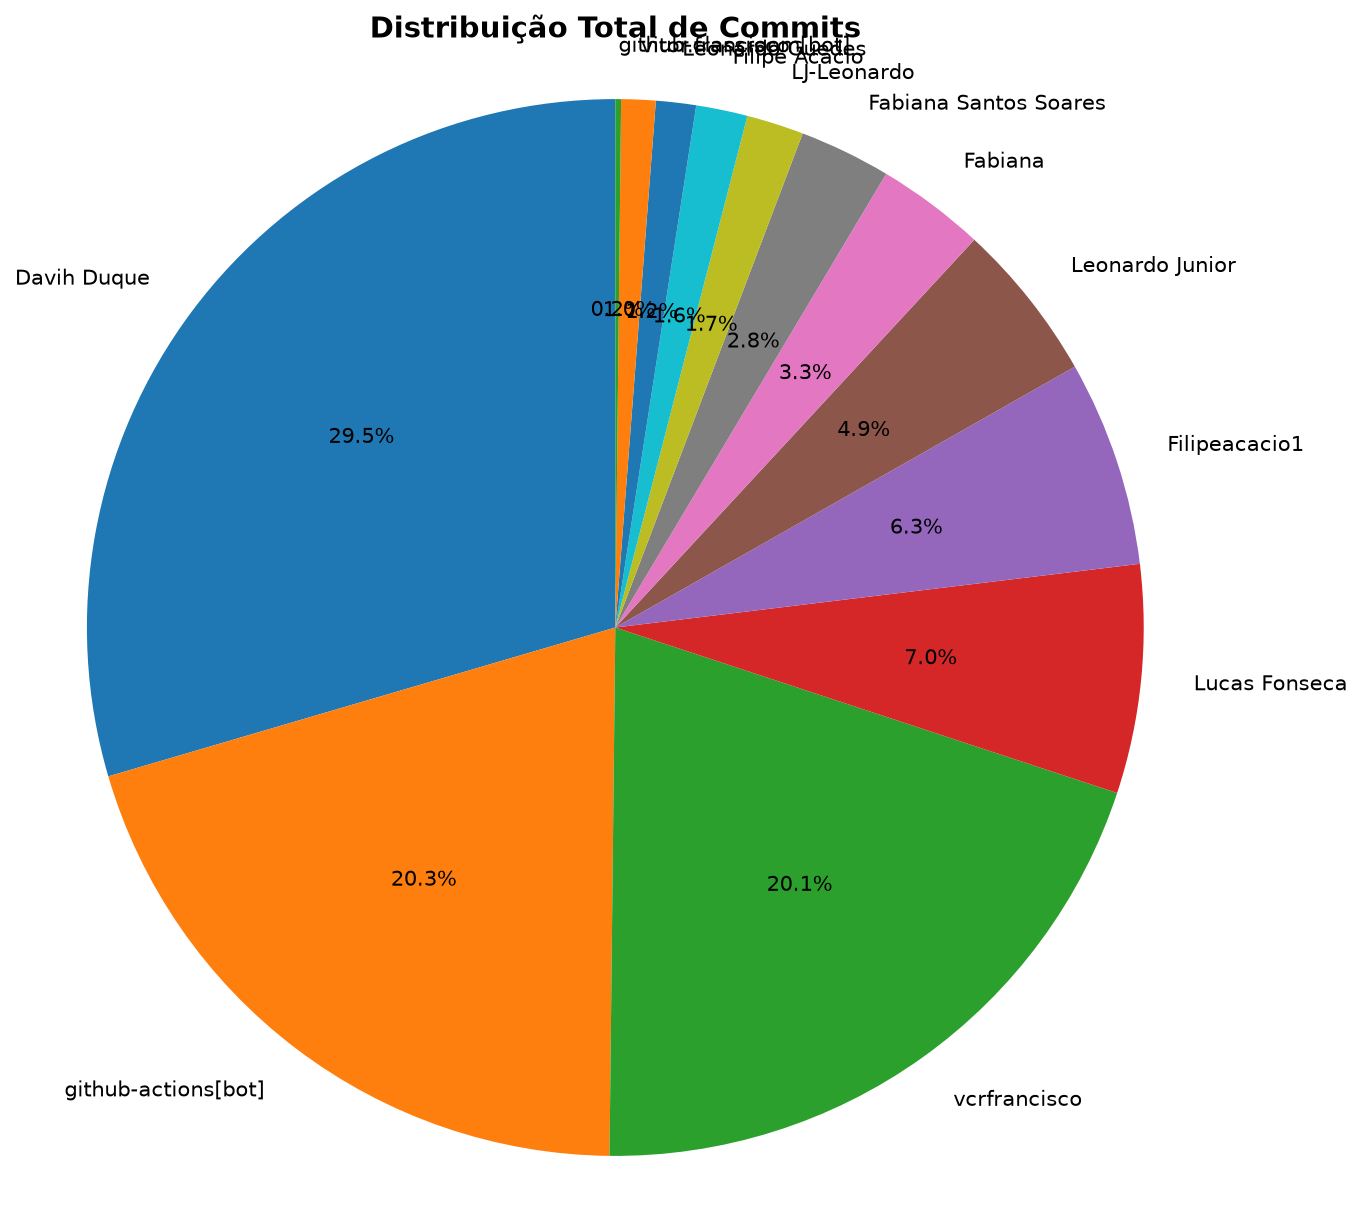
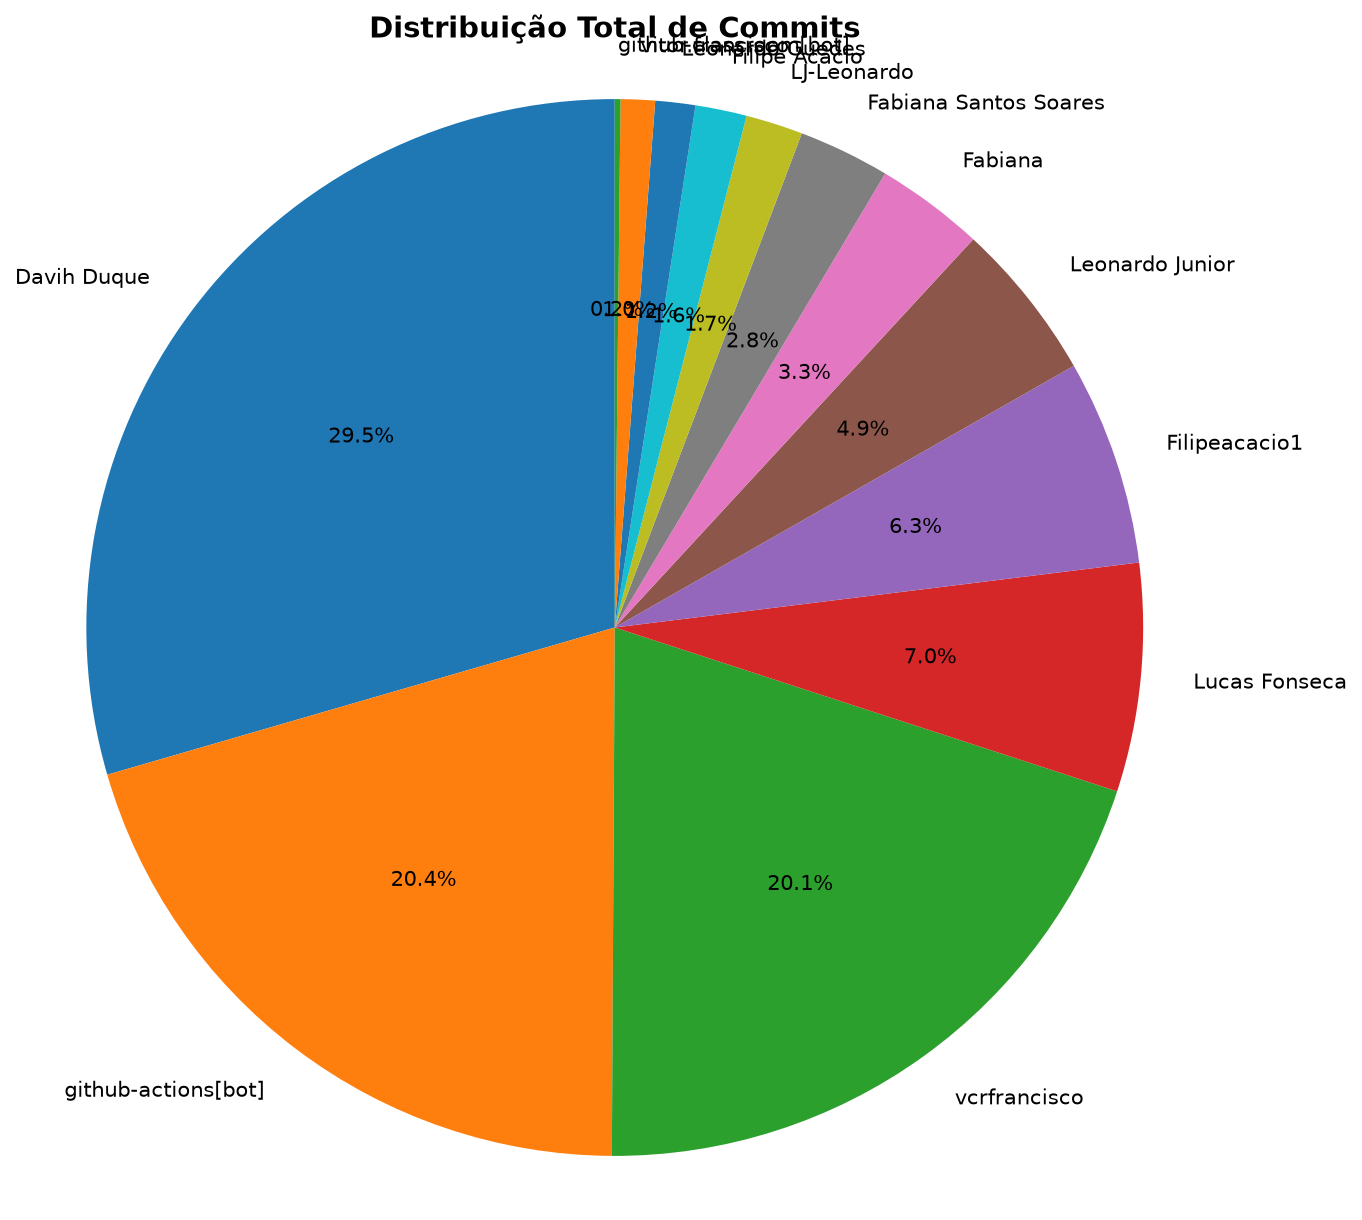
📊 Atualizar relatório de contribuições [skip ci]

diff --git a/docs/CONTRIBUTION_REPORT.md b/docs/CONTRIBUTION_REPORT.md
@@ -1,6 +1,6 @@
 # 📊 Relatório de Contribuições do Projeto
 
-**Última atualização:** 07/09/2026 00:42
+**Última atualização:** 14/09/2026 00:42
 
 ---
 
@@ -17,7 +17,7 @@
 | Leonardo Guedes       |         7 |      1511 |       346 |         56 |              4 |               3 |
 | Leonardo Junior       |        28 |        82 |        80 |          8 |             20 |               3 |
 | Lucas Fonseca         |        40 |      7330 |       936 |         69 |             24 |               5 |
-| github-actions[bot]   |       116 |      1121 |      1080 |          3 |            116 |               1 |
+| github-actions[bot]   |       117 |      1127 |      1086 |          3 |            117 |               1 |
 | github-classroom[bot] |         1 |      2152 |         0 |         45 |              1 |              13 |
 | vcrfrancisco          |       115 |      9188 |      1986 |        120 |             23 |               5 |
 | vitor.francisco       |         6 |        53 |        25 |          8 |              0 |               0 |
@@ -25,7 +25,7 @@
 
 ## 📅 Contribuições Semanais (Todo o Semestre)
 
-**2026-08-31**: github-actions[bot]: 1
+**2026-08-31**: github-actions[bot]: 2
 
 **2026-08-17**: github-actions[bot]: 1
 
@@ -68,8 +68,6 @@
 **2026-04-06**: Davih Duque: 18, Fabiana: 5, Fabiana Santos Soares: 5, Filipeacacio1: 4, LJ-Leonardo: 9, Leonardo Junior: 2, Lucas Fonseca: 6, github-actions[bot]: 13, vcrfrancisco: 56
 
 **2026-03-30**: Davih Duque: 6, Fabiana: 1, Fabiana Santos Soares: 2, Lucas Fonseca: 2, github-actions[bot]: 2
-
-**2026-03-23**: Davih Duque: 6, Fabiana: 1, Fabiana Santos Soares: 2, Filipeacacio1: 2, LJ-Leonardo: 1, Leonardo Junior: 7, Lucas Fonseca: 3, github-actions[bot]: 6, vcrfrancisco: 19
 
 
 
